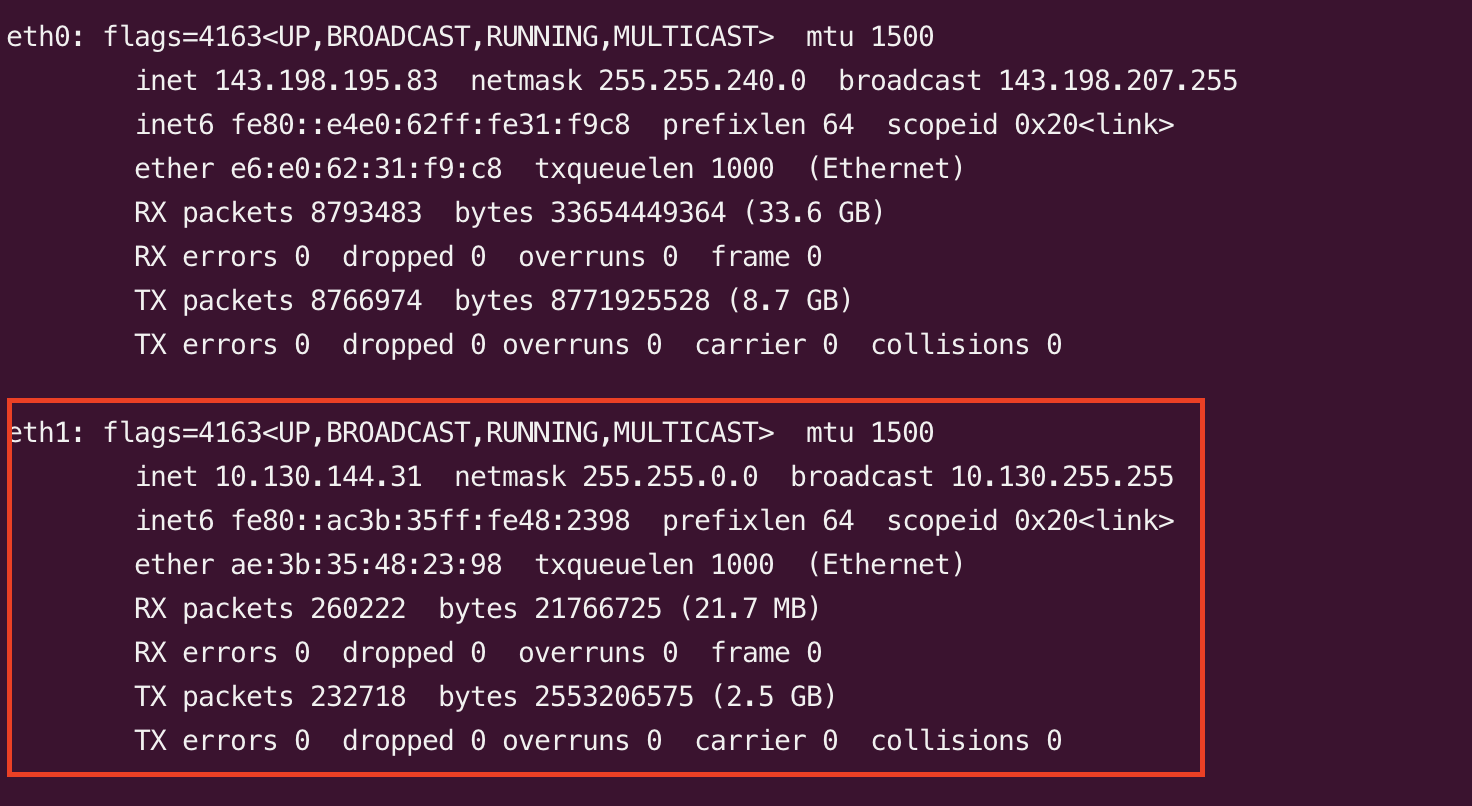
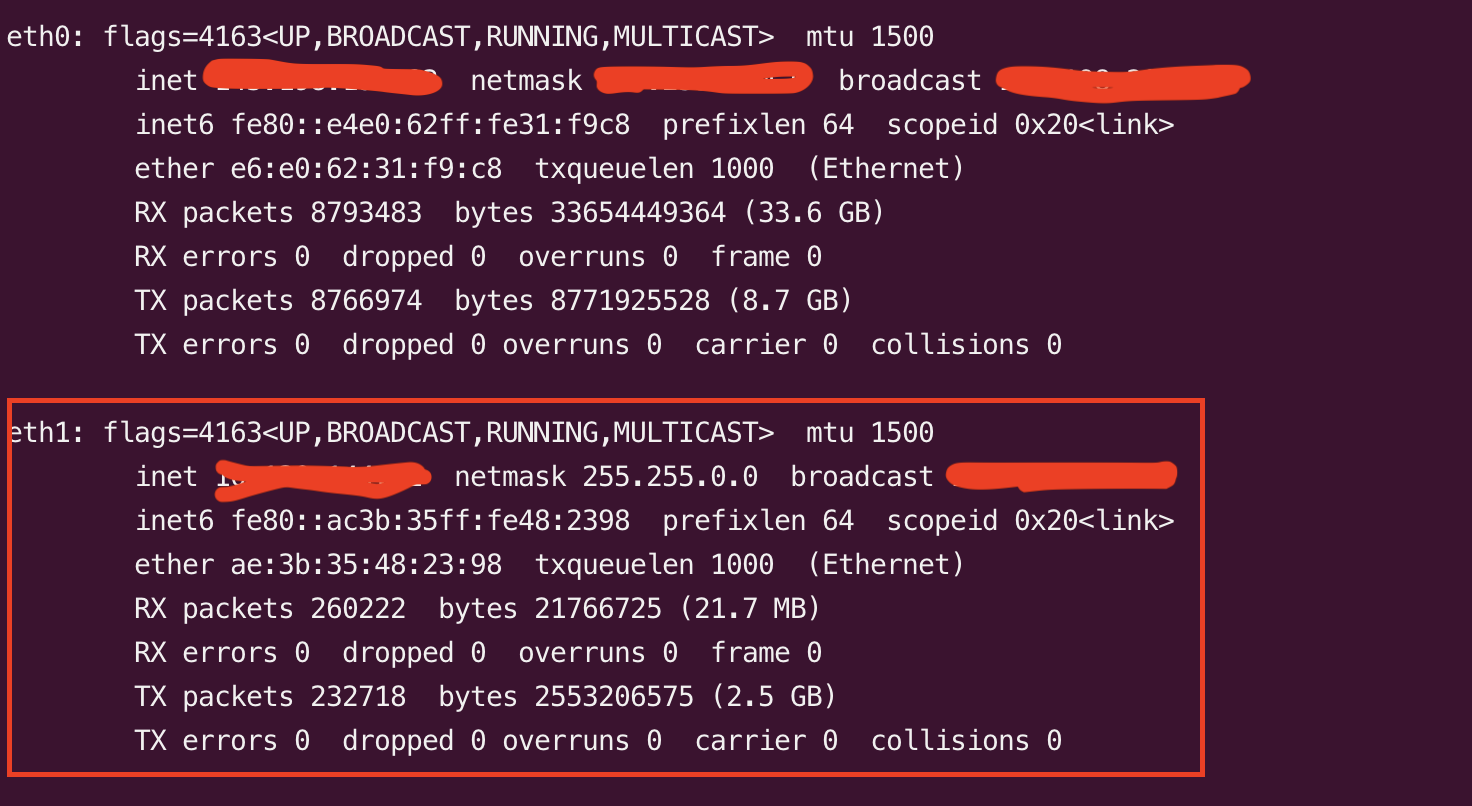
fix: hide data

diff --git a/README.md b/README.md
@@ -314,12 +314,12 @@ __Solution:__
 
 2. _cat /etc/hosts_: ip map
 ```shell
-# 178.128.123.18 backend-pulsar-101
-# 128.199.160.80 backend-pulsar-102
-# 143.198.195.83 backend-pulsar-103
-10.130.144.26 backend-pulsar-101
-10.130.145.44 backend-pulsar-102
-10.130.144.31 backend-pulsar-103
+# -- backend-pulsar-101
+# -- backend-pulsar-102
+# -- backend-pulsar-103
+-- backend-pulsar-101
+-- backend-pulsar-102
+-- backend-pulsar-103
 ```
 
 3. _conf/common.properties_: dolphinscheduler register ip in zookeeper
